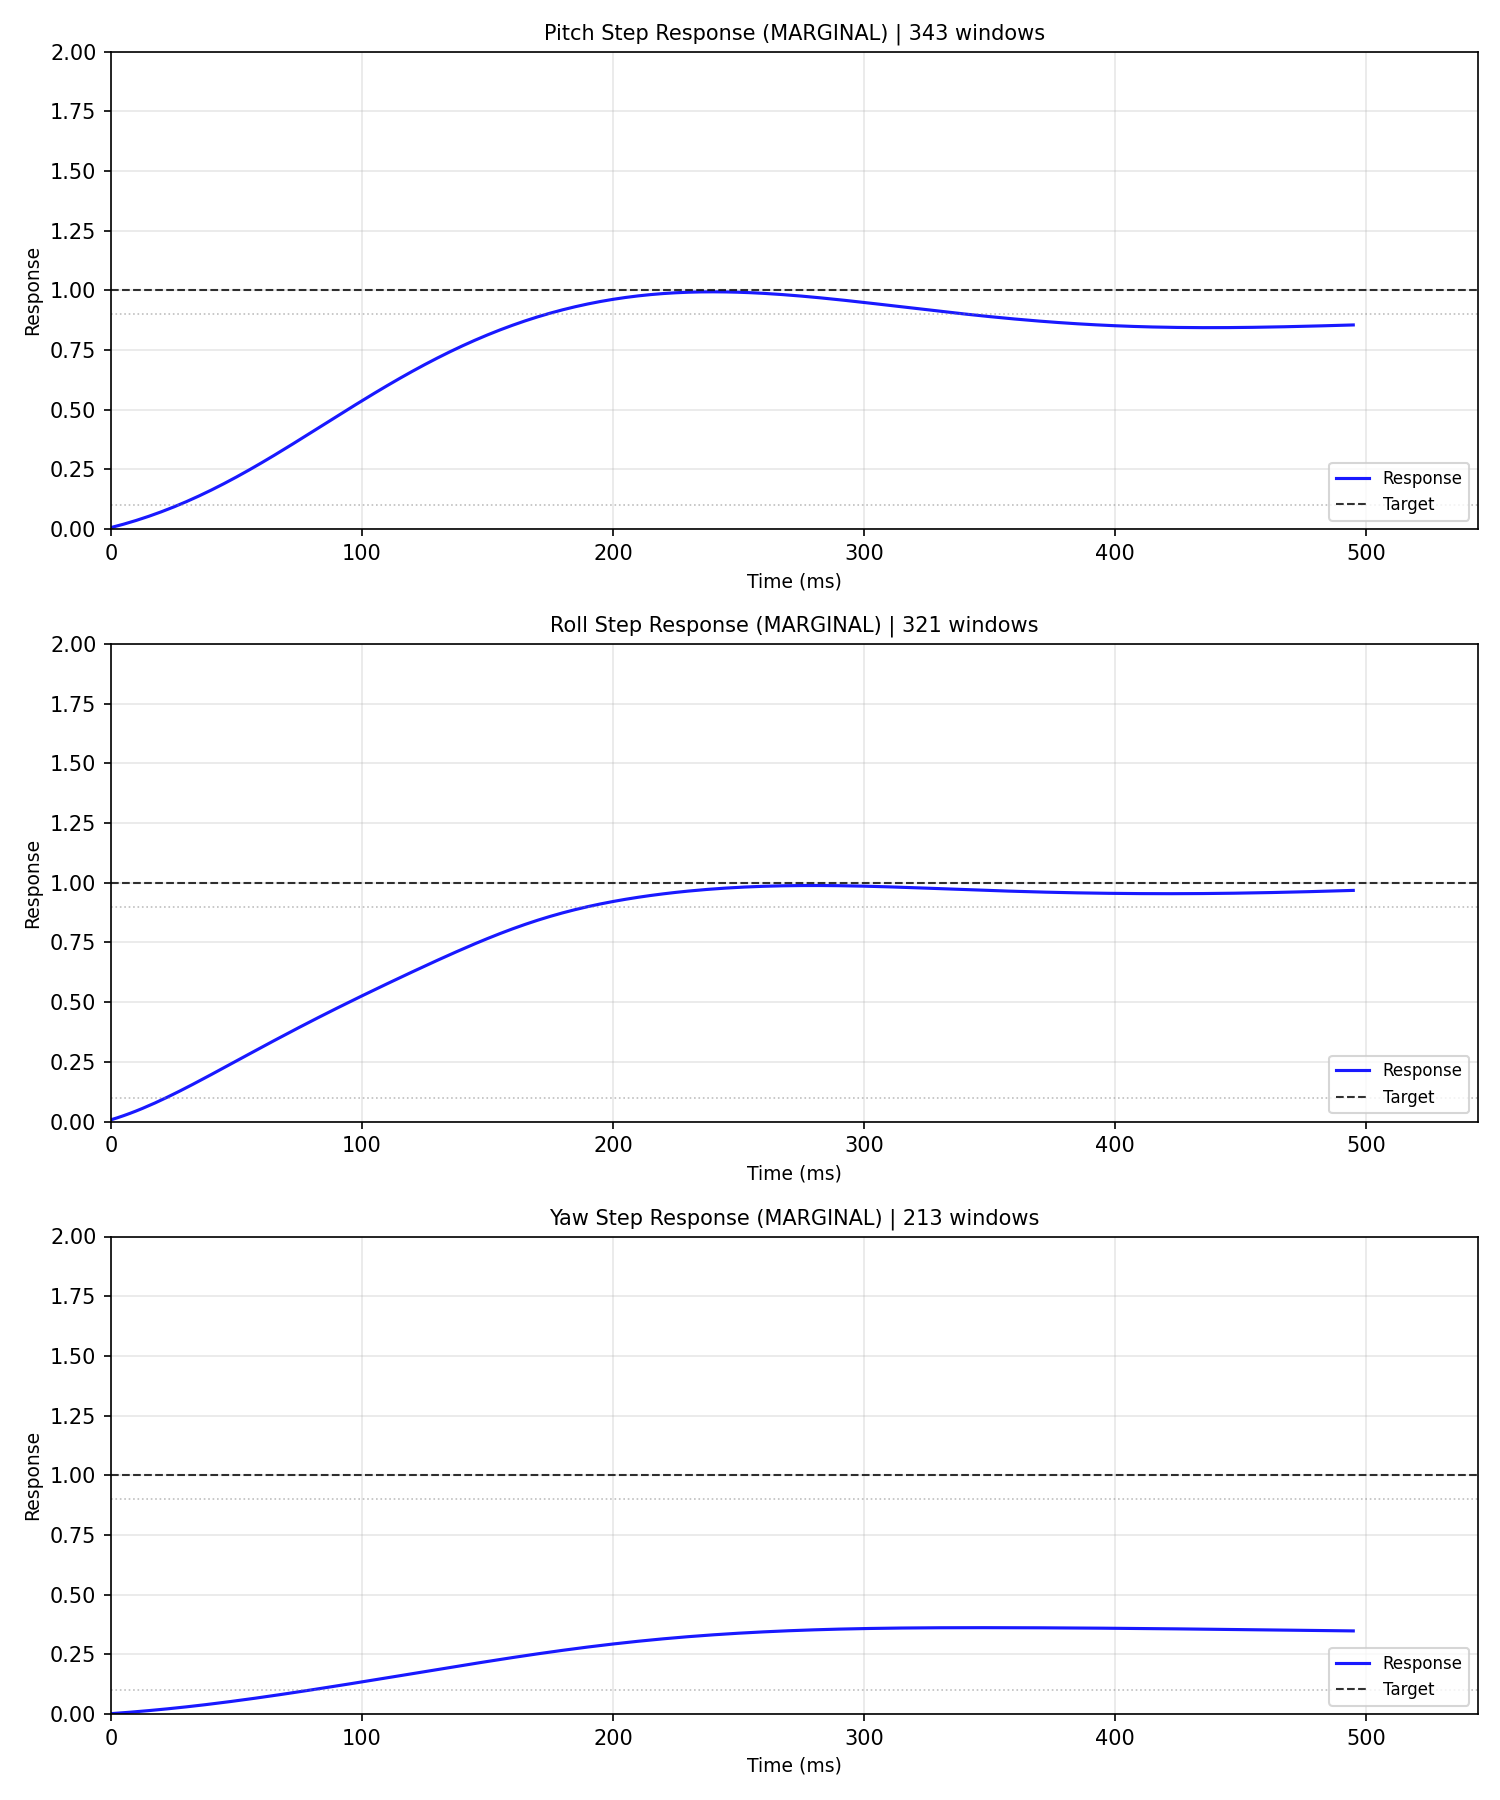
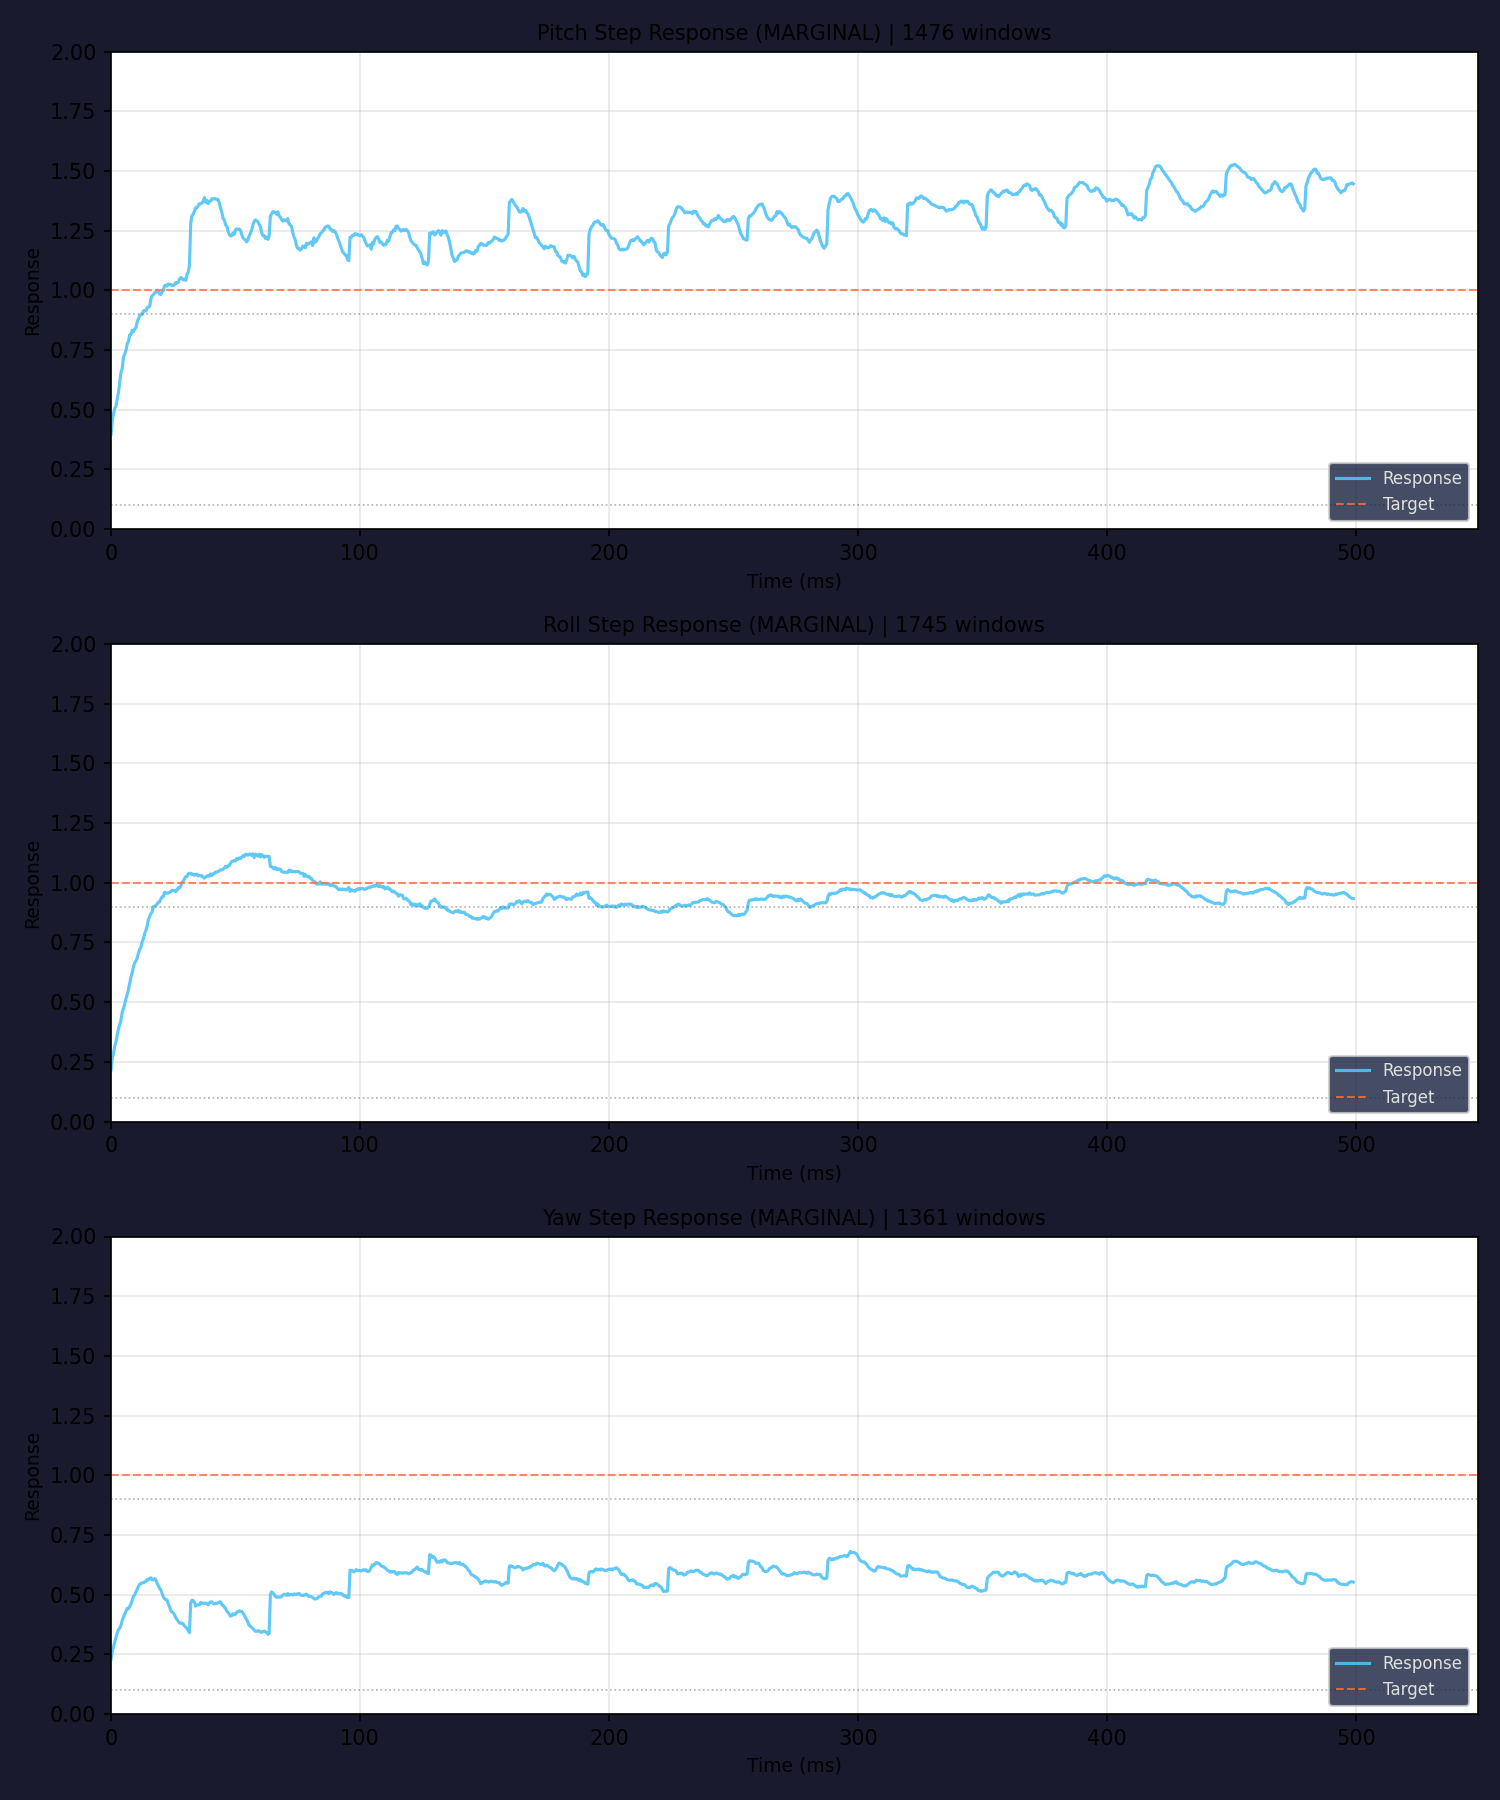
docs(readme): dark theme plots, move examples to end section
- formatter.py: dark background (#1a1a2e) for PID and FFT plots
  with matching text/axis colors
- README: move PID examples to new 'Examples' section at end
- Add terminal output example showing diagnostic format
- Replace example images with dark-themed versions

diff --git a/smarttune/output/formatter.py b/smarttune/output/formatter.py
@@ -490,6 +490,16 @@ class OutputFormatter:
 
         n = len(axes_data)
         fig, axes_plots = plt.subplots(n, 1, figsize=(10, 4 * n), squeeze=False)
+        fig.patch.set_facecolor("#1a1a2e")
+        plt.rcParams.update({
+            "text.color": "#e0e0e0",
+            "axes.labelcolor": "#e0e0e0",
+            "axes.facecolor": "#16213e",
+            "axes.edgecolor": "#4a4a6a",
+            "xtick.color": "#e0e0e0",
+            "ytick.color": "#e0e0e0",
+            "grid.color": "#3a3a5a",
+        })
 
         for i, (axis_name, axis_data) in enumerate(axes_data.items()):
             fft_step = axis_data.get("fft_step", {})
@@ -510,13 +520,13 @@ class OutputFormatter:
             resp = np.array(step_resp)
 
             # Plot step response
-            ax.plot(t, resp, "b-", linewidth=1.5, alpha=0.9, label="Response")
+            ax.plot(t, resp, color="#4fc3f7", linewidth=1.5, alpha=0.9, label="Response")
 
             # Reference lines
-            ax.axhline(0, color="black", linestyle="-", linewidth=0.5, alpha=0.5)
-            ax.axhline(1, color="black", linestyle="--", linewidth=1.0, alpha=0.8, label="Target")
-            ax.axhline(0.1, color="gray", linestyle=":", linewidth=0.8, alpha=0.5)
-            ax.axhline(0.9, color="gray", linestyle=":", linewidth=0.8, alpha=0.5)
+            ax.axhline(0, color="#888888", linestyle="-", linewidth=0.5, alpha=0.5)
+            ax.axhline(1, color="#ff7043", linestyle="--", linewidth=1.0, alpha=0.8, label="Target")
+            ax.axhline(0.1, color="#666666", linestyle=":", linewidth=0.8, alpha=0.5)
+            ax.axhline(0.9, color="#666666", linestyle=":", linewidth=0.8, alpha=0.5)
 
             # Axes limits
             max_time_ms = max(t) if len(t) > 0 else 500
@@ -533,7 +543,7 @@ class OutputFormatter:
 
         plt.tight_layout()
         out_path = self._plot_save("pid_analysis.png")
-        plt.savefig(out_path, dpi=150)
+        plt.savefig(out_path, dpi=150, facecolor=fig.get_facecolor())
         plt.close(fig)
         return out_path
 
@@ -559,6 +569,16 @@ class OutputFormatter:
             return None
 
         fig, ax = plt.subplots(figsize=(10, 5))
+        fig.patch.set_facecolor("#1a1a2e")
+        ax.set_facecolor("#16213e")
+        plt.rcParams.update({
+            "text.color": "#e0e0e0",
+            "axes.labelcolor": "#e0e0e0",
+            "axes.edgecolor": "#4a4a6a",
+            "xtick.color": "#e0e0e0",
+            "ytick.color": "#e0e0e0",
+            "grid.color": "#3a3a5a",
+        })
 
         # Full spectrum curve
         if raw_spectrum and raw_spectrum.get("freqs"):
@@ -629,7 +649,7 @@ class OutputFormatter:
 
         plt.tight_layout()
         out_path = self._plot_save("fft_spectrum.png")
-        plt.savefig(out_path, dpi=150)
+        plt.savefig(out_path, dpi=150, facecolor=fig.get_facecolor())
         plt.close(fig)
         return out_path
 

diff --git a/README.md b/README.md
@@ -181,16 +181,6 @@ stune pid -i flight.bin -a roll                        # Single axis
 stune pid -i flight.bbl --visual                       # Betaflight
 ```
 
-### PID Step Response Examples
-
-**ArduPilot** (DataFlash `.bin` log):
-
-![ArduPilot PID step response](assets/pid_ardupilot_example.png)
-
-**Betaflight** (Blackbox `.bbl` log):
-
-![Betaflight PID step response](assets/pid_betaflight_example.png)
-
 ### `stune fft`
 
 Frequency-domain vibration analysis with notch filter suggestions.
@@ -368,6 +358,46 @@ SmartTune is designed to work with any LLM agent framework. Here's how it fits:
 | **Custom agents** | pip-installable, importable Python API for advanced use cases |
 
 Agents call `stune`, get structured tuning recommendations, and can act on them. No TUI to navigate, no prompts to answer, no fragile screen-scraping.
+
+---
+
+## Examples
+
+### Terminal Output
+
+```text
+Platform: Betaflight
+╭──────────────────────────────────────────────────────────────────╮
+│ PID Step Response Analysis                                       │
+╰──────────────────────────────────────────────────────────────────╯
+
+  PITCH: MARGINAL  (steps: 4)
+  ROLL:  MARGINAL  (steps: 1)
+  YAW:   MARGINAL  (steps: 1)
+  Overall: MARGINAL
+
+╭──────────────────────────────────────────────────────────────────╮
+│ FFT Vibration Analysis                                           │
+╰──────────────────────────────────────────────────────────────────╯
+  Vibration: MARGINAL (10.0 m/s²)
+  Freq (Hz)    Amplitude (dB)    Source
+       93.7             -46.5    motor
+    → gyro_notch1_hz: 93.7
+    → gyro_lowpass_hz: 40
+    → acc_lpf_hz: 10
+
+✓ Analysis complete!
+```
+
+### PID Step Response
+
+**ArduPilot** (DataFlash `.bin` log):
+
+![ArduPilot PID step response](assets/pid_ardupilot_example.png)
+
+**Betaflight** (Blackbox `.bbl` log):
+
+![Betaflight PID step response](assets/pid_betaflight_example.png)
 
 ---
 
